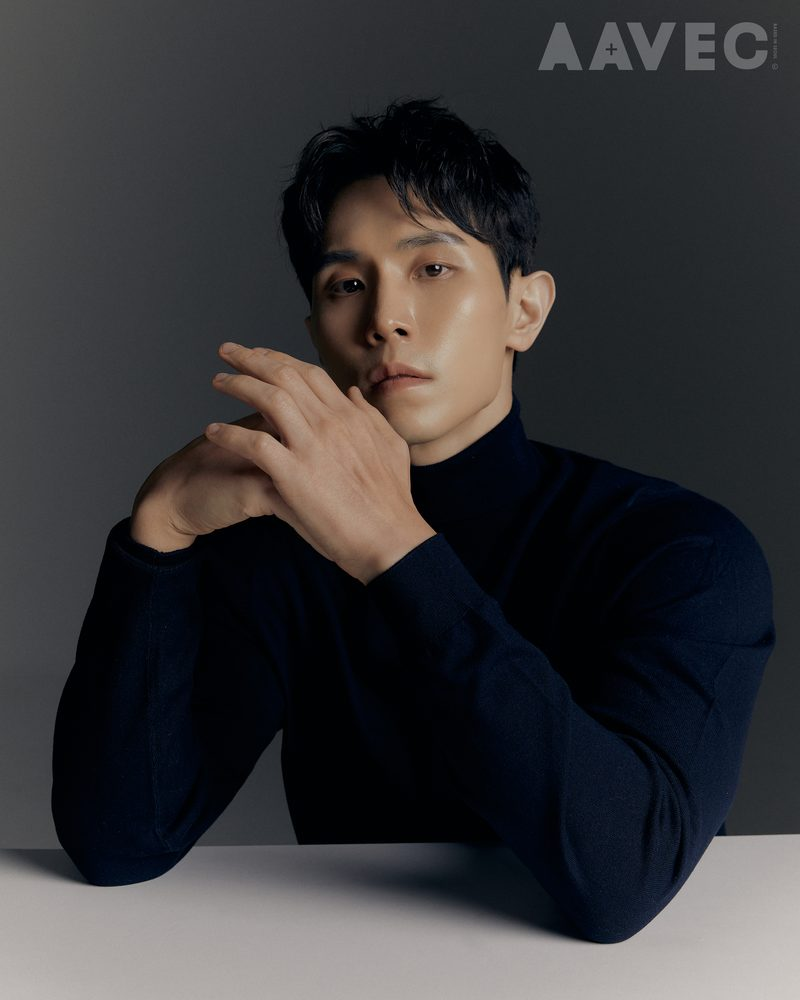
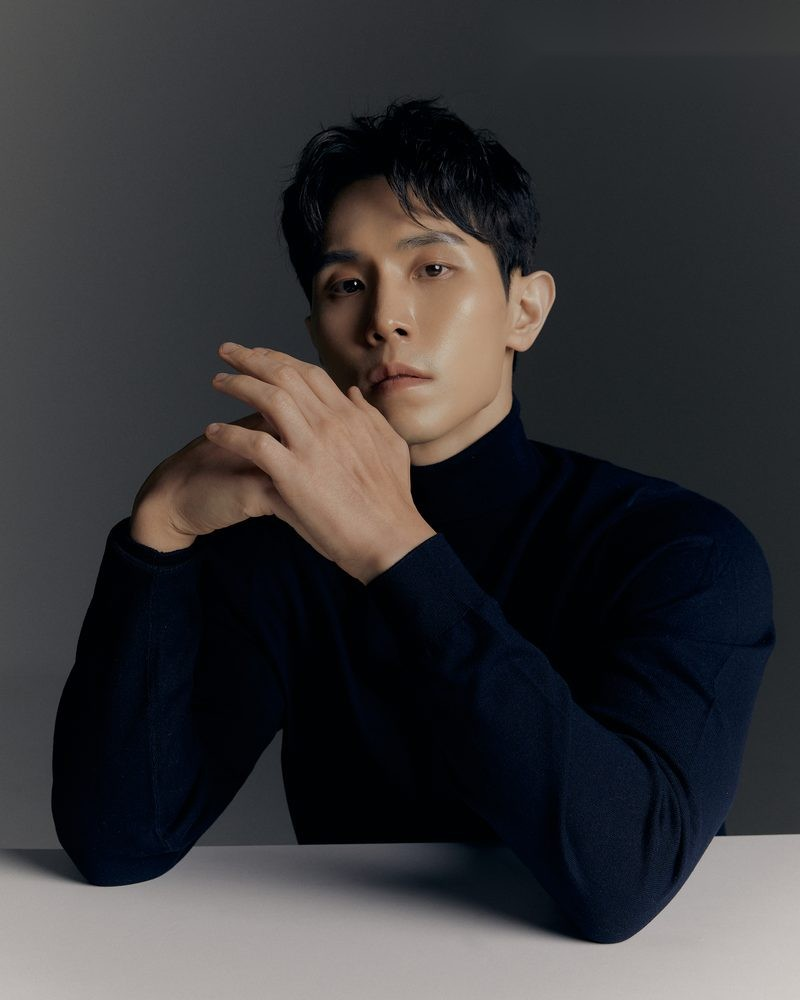
fix: AAVEC 로고 제거(윤재영) + 트랙 카드 시인성 개선(학년 색상구분·사진슬롯)

Changed region(s): [[0.6562, 0.0, 0.9688, 0.093]]

diff --git a/index.html b/index.html
@@ -137,16 +137,29 @@
   .op{display:flex;gap:16px;align-items:flex-start;background:var(--paper);border:1px solid var(--line);border-radius:14px;padding:18px 20px;box-shadow:var(--shadow-sm);font-size:15.5px;color:#3d4763;line-height:1.6}
   .op b{color:var(--ink)}
   .op-ic{flex:none;width:44px;height:44px;border-radius:12px;background:linear-gradient(160deg,var(--gold-bright),var(--gold));display:flex;align-items:center;justify-content:center;font-size:22px}
-  .track-grid{display:grid;grid-template-columns:repeat(auto-fit,minmax(250px,1fr));gap:16px;margin-top:26px}
-  .track{background:var(--paper);border:1px solid var(--line);border-radius:18px;padding:26px 24px;box-shadow:var(--shadow-sm);position:relative;overflow:hidden}
-  .track::before{content:"";position:absolute;top:0;left:0;width:100%;height:4px;background:linear-gradient(90deg,var(--gold),var(--gold-bright))}
-  .tt-tag{display:inline-block;font-size:12px;font-weight:800;color:#8a6a1e;background:var(--gold-soft);padding:5px 12px;border-radius:999px;margin-bottom:12px}
-  .track h3{font-size:20px;font-weight:800;color:var(--ink);margin-bottom:12px;line-height:1.35}
-  .track h3 span{display:block;font-size:13px;color:var(--muted);font-weight:700;margin-top:2px}
+  .track-clari{text-align:center;font-size:clamp(16px,3vw,19px);font-weight:800;color:var(--ink);margin-top:34px}
+  .track-clari .g{color:var(--gold)}
+  .track-grid{display:grid;grid-template-columns:repeat(auto-fit,minmax(290px,1fr));gap:18px;margin-top:16px}
+  .track{background:var(--paper);border:1px solid var(--line);border-radius:20px;overflow:hidden;box-shadow:var(--shadow-sm);position:relative;transition:transform .18s ease,box-shadow .2s ease}
+  .track:hover{transform:translateY(-4px);box-shadow:var(--shadow)}
+  .track-photo{position:relative;aspect-ratio:16/10;background:linear-gradient(160deg,#e7ebf2,#f3f6fb);display:flex;align-items:center;justify-content:center;overflow:hidden}
+  .track-photo img{position:absolute;inset:0;width:100%;height:100%;object-fit:cover}
+  .track-photo .tph{color:#9aa6bf;font-size:13px;font-weight:700;text-align:center;line-height:1.5;padding:12px;z-index:0}
+  .track-badge{position:absolute;top:14px;left:14px;z-index:2;font-size:14.5px;font-weight:800;color:#fff;padding:8px 16px;border-radius:999px;box-shadow:0 6px 14px rgba(0,0,0,.28);background:linear-gradient(160deg,#15294f,#213c6c)}
+  .track.t2 .track-badge{background:linear-gradient(160deg,#0f766e,#14b8a6)}
+  .track-top{height:6px}
+  .track.t1 .track-top{background:linear-gradient(90deg,var(--gold),var(--gold-bright))}
+  .track.t2 .track-top{background:linear-gradient(90deg,#0f766e,#2dd4bf)}
+  .track-b{padding:22px 24px 26px}
+  .track-b h3{font-size:21px;font-weight:800;color:var(--ink);line-height:1.3}
+  .track-b h3 .tf{display:block;font-size:14px;font-weight:700;color:var(--muted);margin-top:4px}
+  .track-for{font-size:14.5px;font-weight:800;color:var(--navy-soft);background:var(--cream-2);border-radius:10px;padding:10px 14px;margin:14px 0}
+  .track.t2 .track-for{color:#0f766e;background:#e6faf5}
   .track ul{list-style:none}
   .track li{font-size:14.5px;color:#3d4763;line-height:1.6;padding:8px 0;border-top:1px dashed var(--line)}
   .track li:first-child{border-top:none}
   .track li .k{display:inline-block;min-width:40px;color:var(--gold);font-weight:800;margin-right:4px}
+  .track.t2 li .k{color:#0f766e}
   .track li b{color:var(--navy-soft);font-weight:800}
 
   /* team */
@@ -493,28 +506,33 @@
       <div class="op"><div class="op-ic">🎯</div><div><b>입반 전 담임 인터뷰(30분~1시간)</b> — 한 철 반짝이 아니라 습관과 '효능감'을 남기기 위해, 목표와 자습 설계를 함께 정하고 시작합니다.</div></div>
     </div>
     <blockquote class="tip narrow"><b>다른 학원을 병행해도 괜찮습니다 — 단, '빈 시간'은 지켜드립니다.</b> 등원 시간을 담임과 공유하면 다녀온 뒤 자습에 복귀합니다. 다만 솔직히, 관리의 촘촘함은 아이의 공부가 <b>다올105 안에서</b> 이뤄질 때 확연히 좋아집니다. '보충 간다'던 시간이 실제로 어떻게 쓰이는지는 문 밖을 나서는 순간 아무도 볼 수 없으니까요 — <b>빈 시간은 원래 새기 마련</b>입니다. 타 학원은 열어두되, 가능한 시간은 다올105 안에서 관리받도록 함께 설계하시길 권합니다.</blockquote>
+    <p class="track-clari"><span class="g">대상 학년</span>에 따라 두 반으로 나뉩니다 — 우리 아이에 맞게 고르세요</p>
     <div class="track-grid">
-      <div class="track">
-        <div class="tt-tag">트랙 1 · 고등부</div>
-        <h3>관리형 독서실 <span>완전 개인석</span></h3>
-        <ul>
-          <li><span class="k">대상</span> 고등부 (중3 참여 가능)</li>
-          <li><span class="k">공간</span> 완전 개인석 — 독립된 내 자리에서 몰입</li>
-          <li><span class="k">시간</span> 오전 10시(9시 선택) ~ 밤 10시 · 토·일 운영(조율)</li>
-          <li><span class="k">특징</span> 인터뷰 후 <b>2학기 연속 시 우선 배정</b></li>
-          <li><span class="k">비용</span> 방학 <b>59→최대 39만</b> · 학기중 <b>39→최대 19만</b></li>
-        </ul>
+      <div class="track t1">
+        <div class="track-photo"><span class="tph">📚 완전 개인석 독서실 사진<br>(img/track1.jpg 저장 시 표시)</span><img src="img/track1.jpg" alt="관리형 독서실 완전 개인석" onerror="this.style.display='none'"><span class="track-badge">고등부</span></div>
+        <div class="track-top"></div>
+        <div class="track-b">
+          <h3>완전 1인 개인석<span class="tf">관리형 독서실</span></h3>
+          <div class="track-for">✓ 고등학생 (중3 참여 가능) · 종일 몰입형</div>
+          <ul>
+            <li><span class="k">시간</span> 오전 10시(9시 선택) ~ 밤 10시 · 토·일 운영(조율)</li>
+            <li><span class="k">비용</span> 방학 <b>59→최대 39만</b> · 학기중 <b>39→최대 19만</b></li>
+            <li><span class="k">특징</span> 인터뷰 후 <b>2학기 연속 시 우선 배정</b></li>
+          </ul>
+        </div>
       </div>
-      <div class="track">
-        <div class="tt-tag">트랙 2 · 중3 프리</div>
-        <h3>강의실 자기주도 관리 <span>파티션 + 개인서랍</span></h3>
-        <ul>
-          <li><span class="k">대상</span> 중3 (예비 고1)</li>
-          <li><span class="k">공간</span> 파티션+개인서랍 — '관리형 야간 자율학습' 개념</li>
-          <li><span class="k">시간</span> 주중 10~18시 · 토 10~22시 · <b>일 휴무</b></li>
-          <li><span class="k">특징</span> <b>고1의 벽을 여름에 미리</b> 넘습니다</li>
-          <li><span class="k">비용</span> 방학 기간 <b>39→최대 19만</b></li>
-        </ul>
+      <div class="track t2">
+        <div class="track-photo"><span class="tph">🪑 파티션+개인서랍 강의실 사진<br>(img/track2.jpg 저장 시 표시)</span><img src="img/track2.jpg" alt="강의실 자기주도 파티션 개인서랍" onerror="this.style.display='none'"><span class="track-badge">중3 · 예비고1</span></div>
+        <div class="track-top"></div>
+        <div class="track-b">
+          <h3>파티션 + 개인서랍<span class="tf">강의실 자기주도 관리</span></h3>
+          <div class="track-for">✓ 중3 (예비 고1) · '관리형 야자'로 고1 준비</div>
+          <ul>
+            <li><span class="k">시간</span> 주중 10~18시 · 토 10~22시 · <b>일 휴무</b></li>
+            <li><span class="k">비용</span> 방학 기간 <b>39→최대 19만</b></li>
+            <li><span class="k">특징</span> <b>고1의 벽을 여름에 미리</b> 넘습니다</li>
+          </ul>
+        </div>
       </div>
     </div>
     <p class="compare-note narrow" style="text-align:center">※ 두 트랙 모두 공통 운영 시스템은 동일합니다. 교과목 수강 시 과목당 5만원씩 할인.</p>
